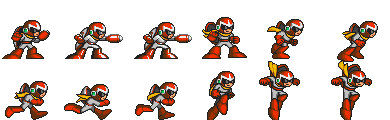
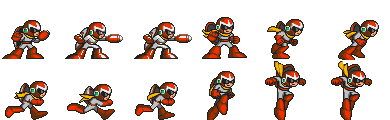
Fixed Sprite and fixed player jump animation

Changed region(s): [[0.6462, 0.5, 0.8, 1.0], [0.1538, 0.7, 0.3077, 1.0], [0.8615, 0.15, 0.9846, 0.525]]

diff --git a/src/org/escoladeltreball/universerescue/game/Player.java b/src/org/escoladeltreball/universerescue/game/Player.java
@@ -91,12 +91,12 @@ public class Player extends AnimatedSprite {
 	}
 
 	public void run(float pValueX) {
-		if (pValueX > 0) {
+		if (pValueX > 0 && !isJump) {
 			numSteps = numSteps > 8 ? 4 : numSteps;
 			this.setCurrentTileIndex(numSteps);
 			isFire = false;
 			numSteps++;
-		}else if(pValueX < 0){
+		}else if(pValueX < 0 && !isJump){
 			numSteps = numSteps > 8 ? 4 : numSteps;
 			this.setCurrentTileIndex(numSteps);
 			isFire = false;
